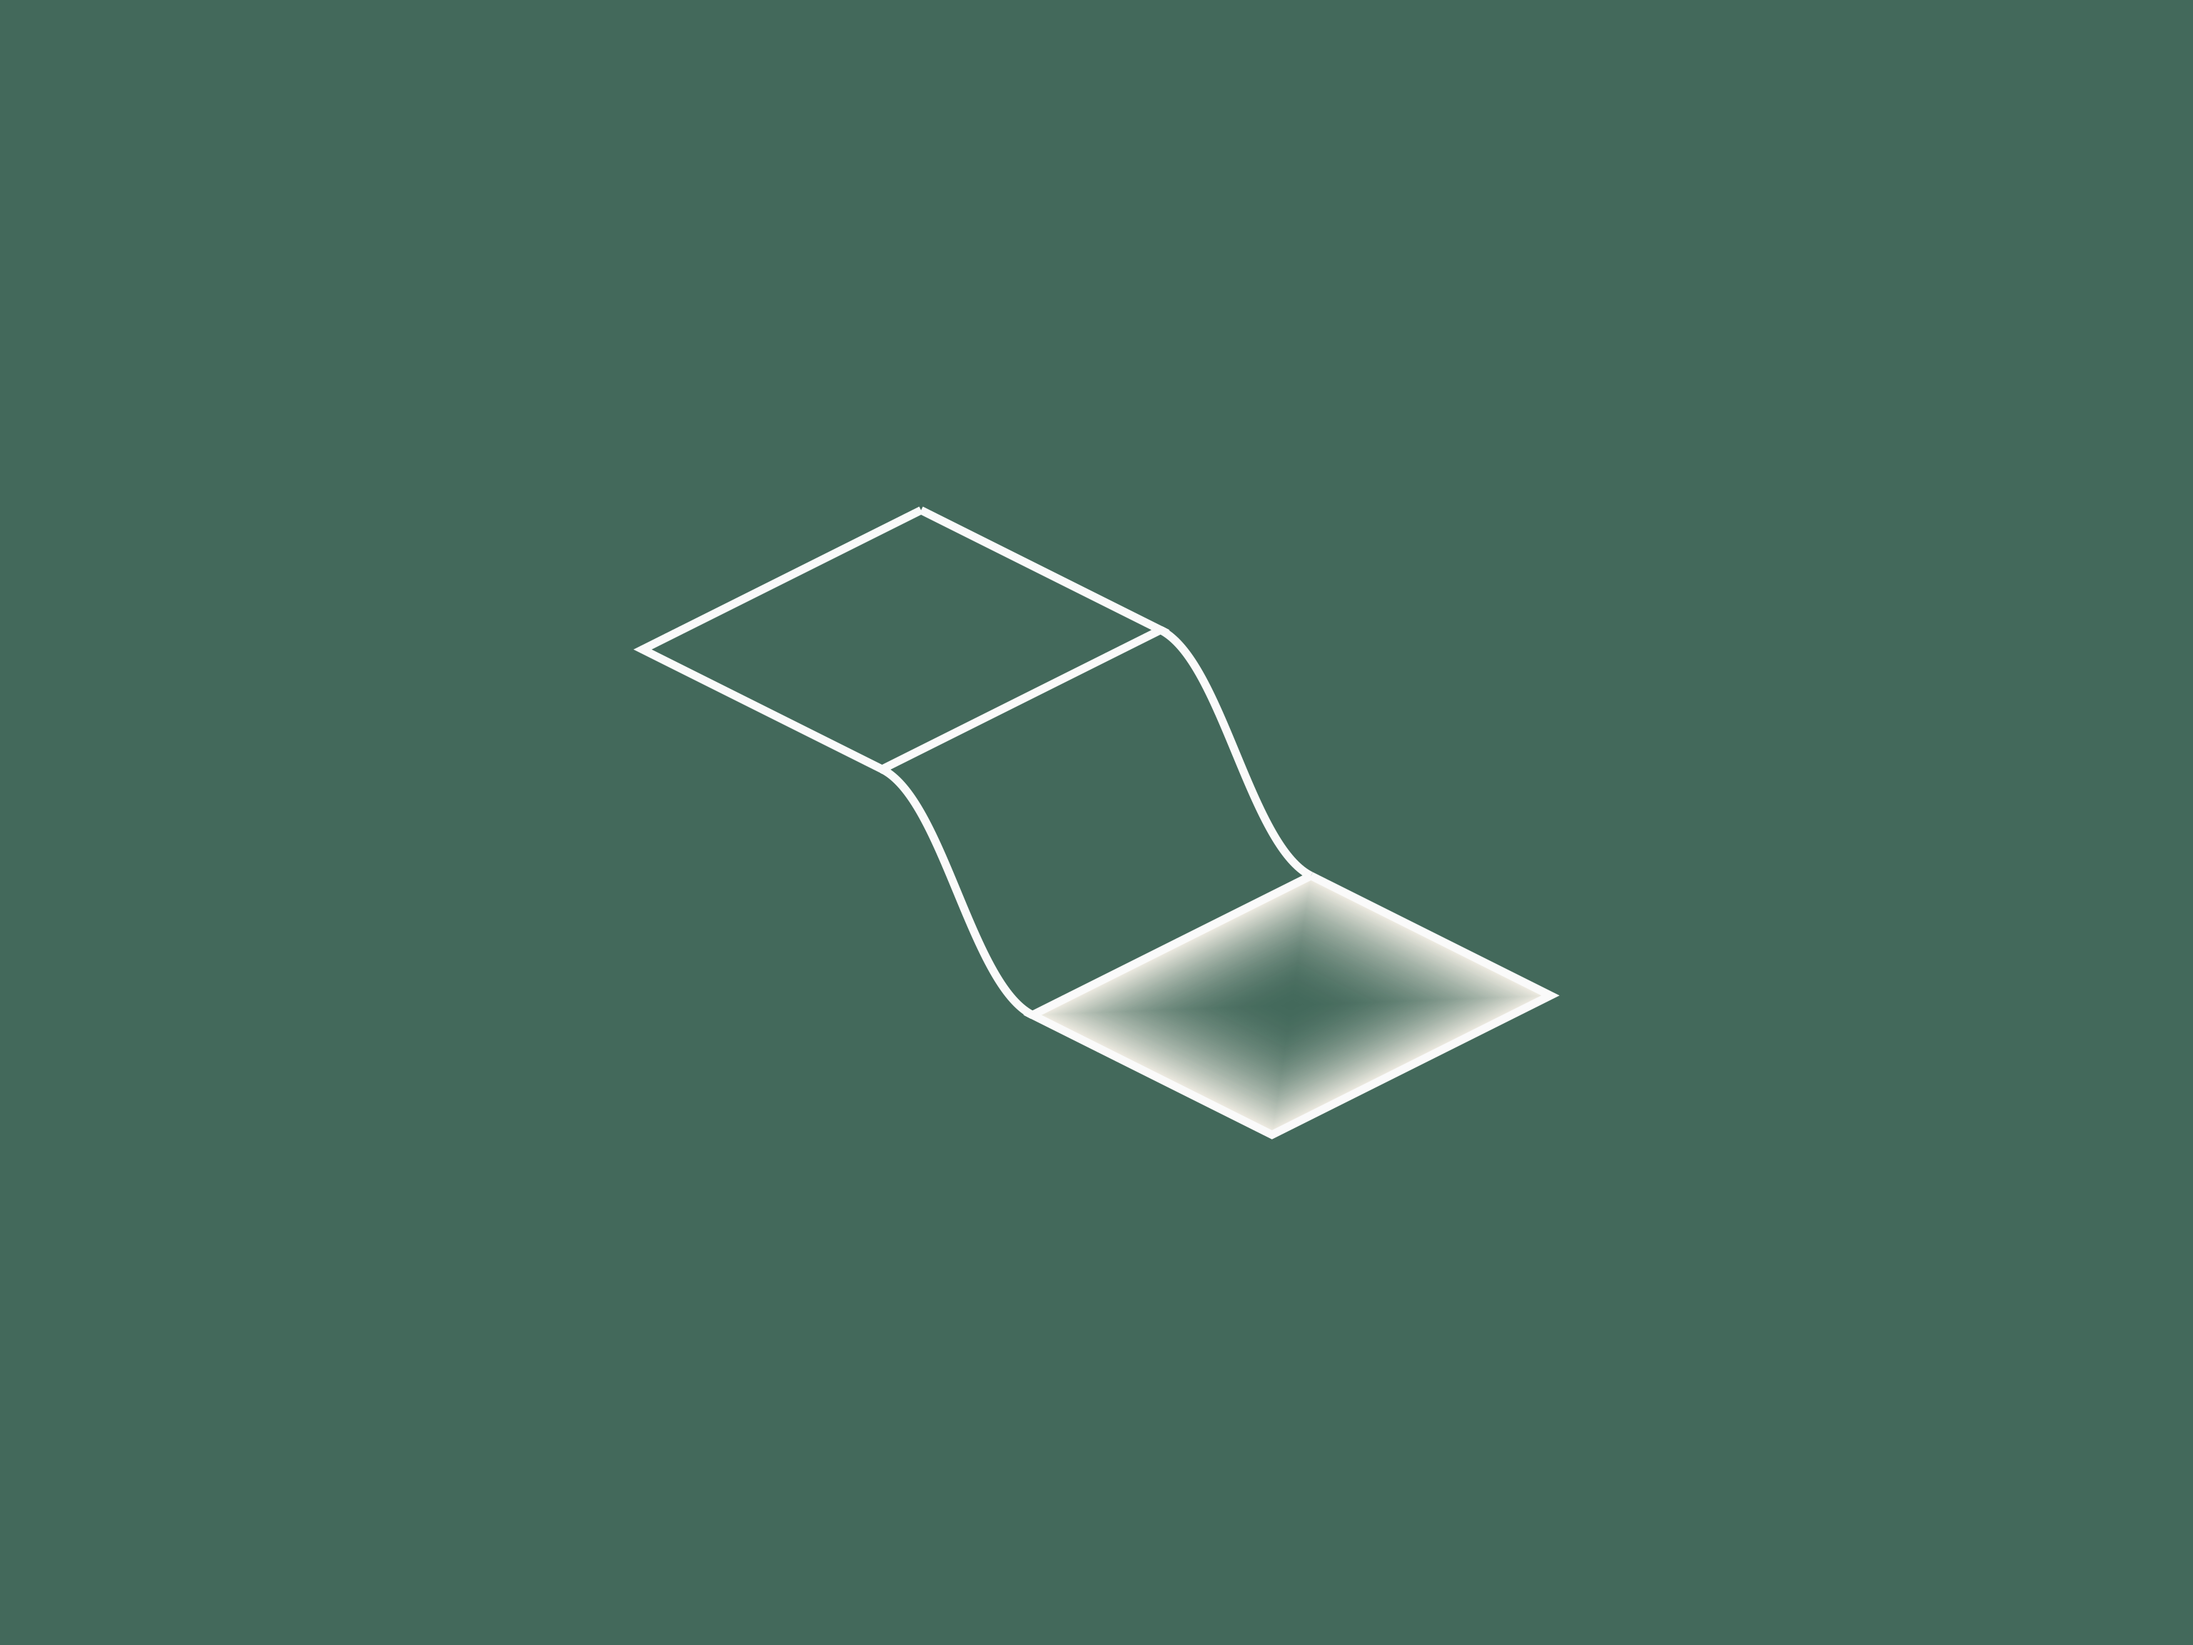
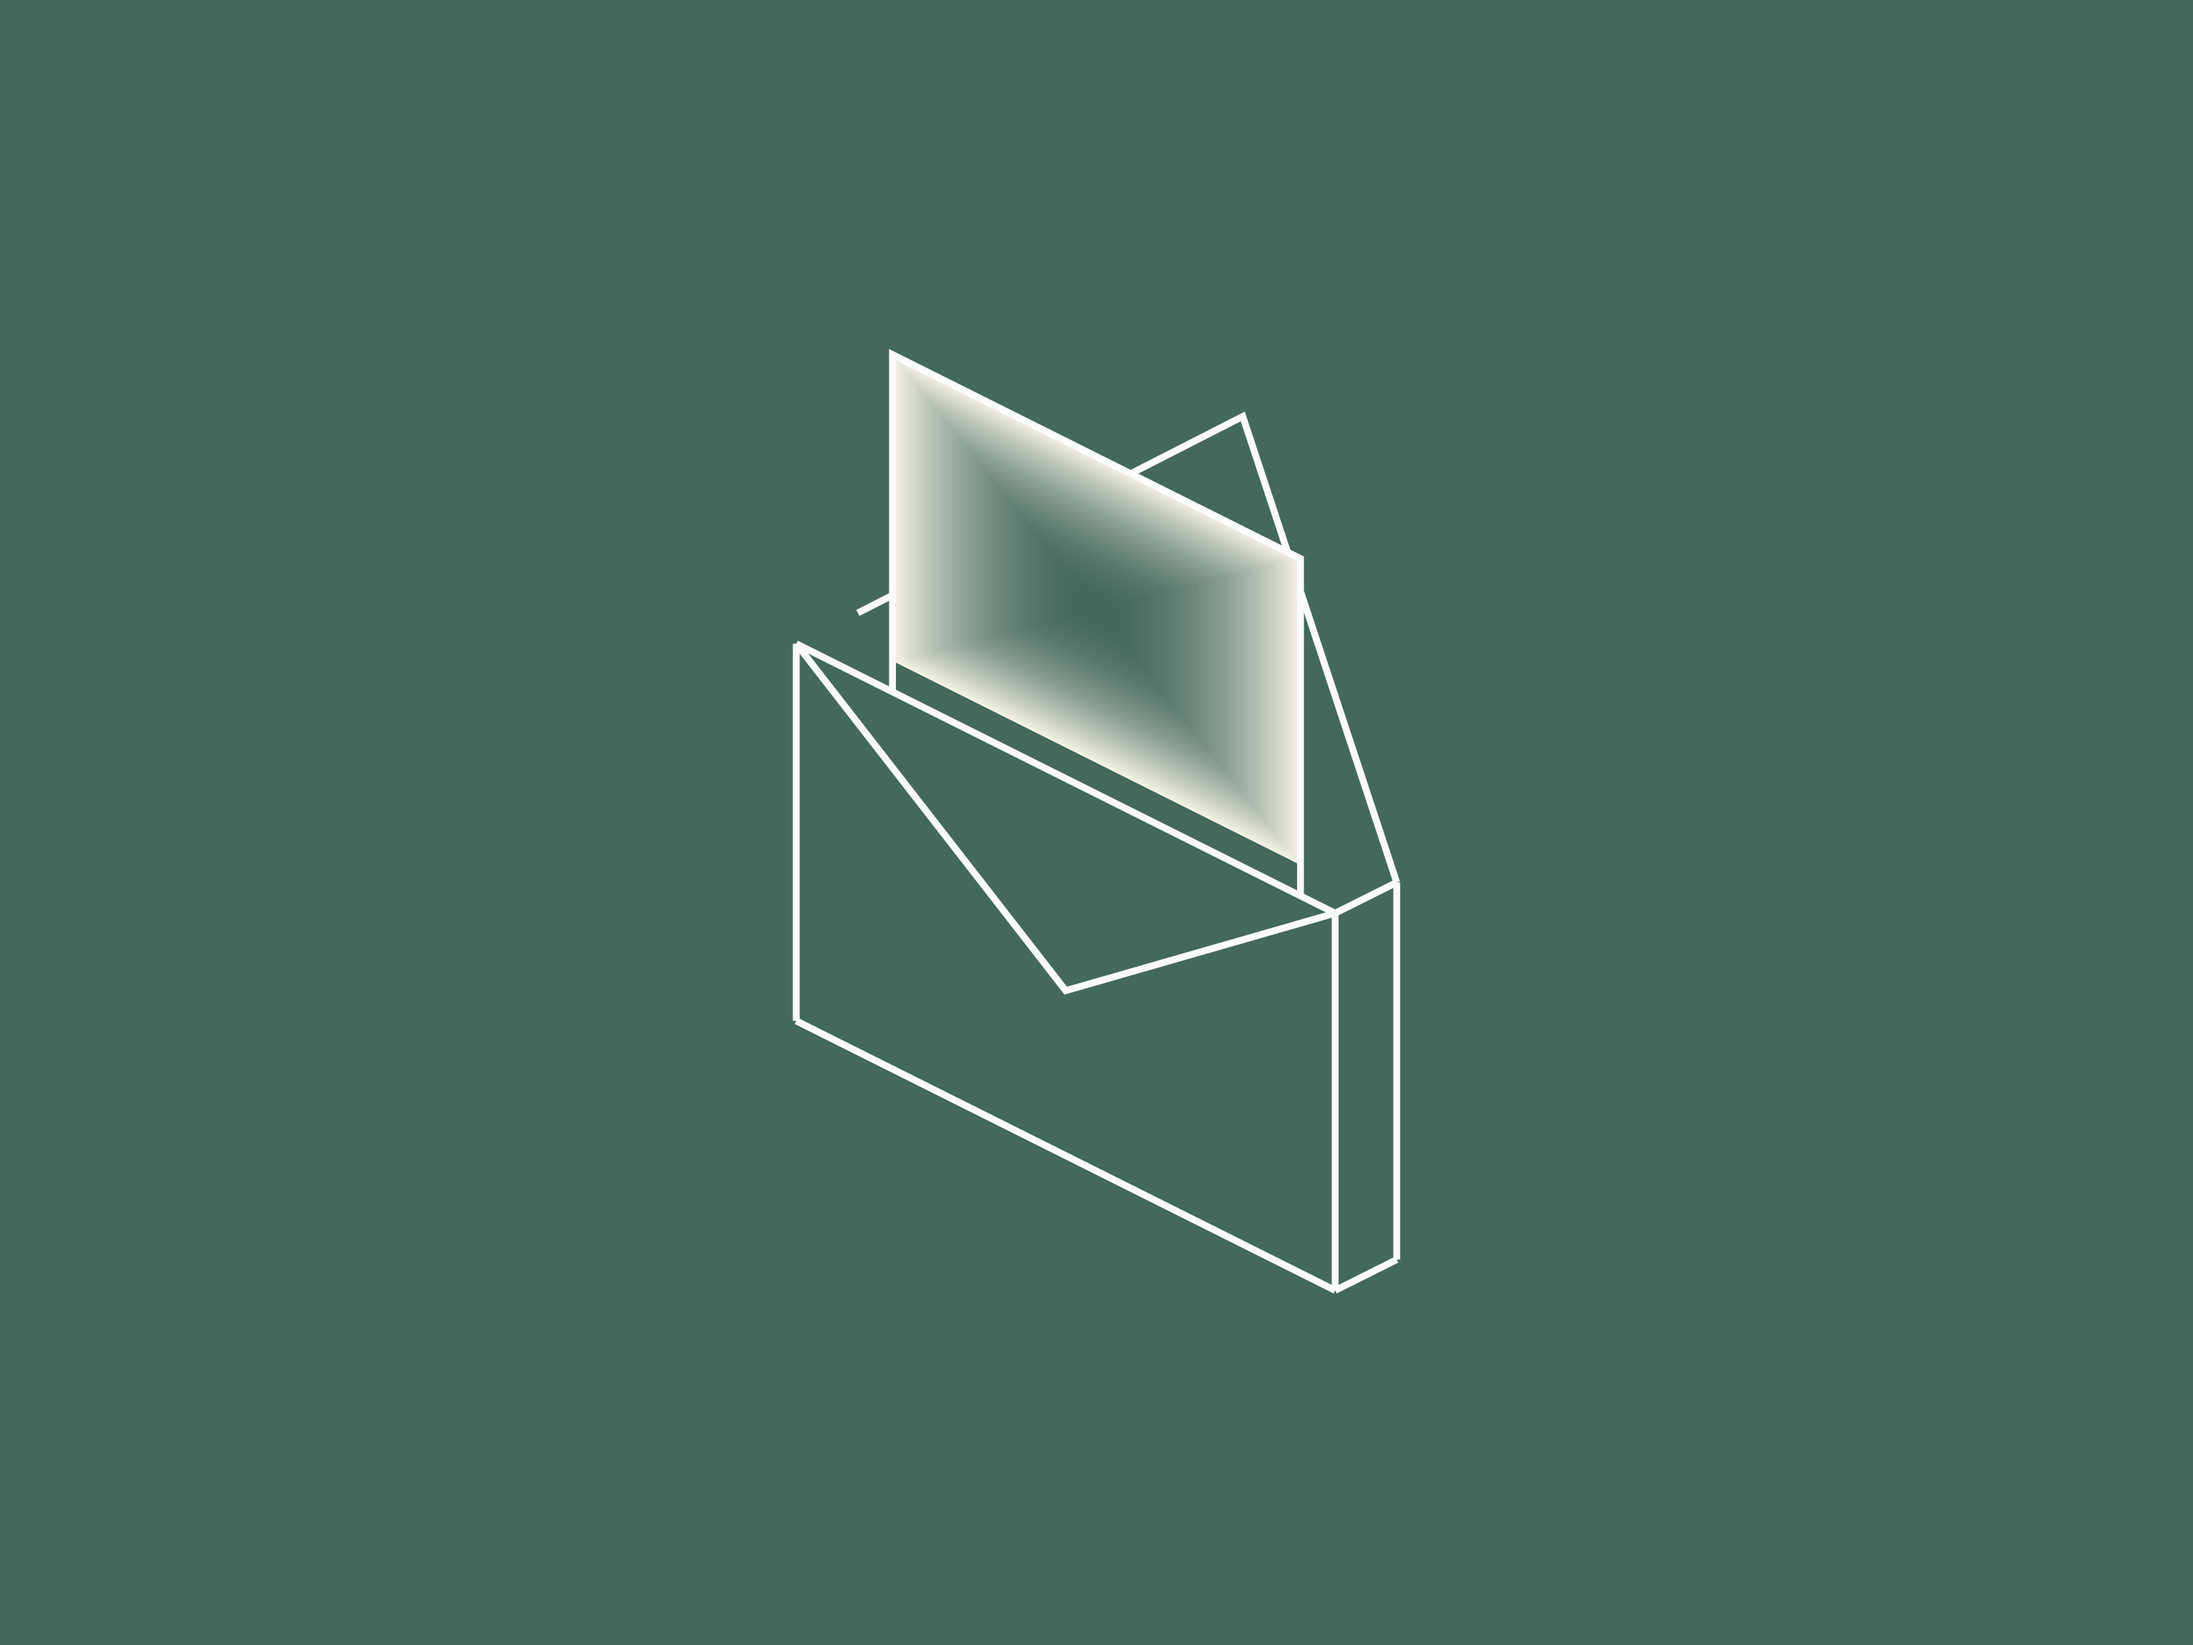
Clarify quote cover with an open envelope and finer outlines

diff --git a/docs/design/blog-illustrations-2026-11-17/quotes-go-quiet/decision.md b/docs/design/blog-illustrations-2026-11-17/quotes-go-quiet/decision.md
@@ -1,9 +1,11 @@
 # The quote went out. Then nothing.
 
-The article is about replies falling between channels; two equal sheets at different levels remain physically connected, so the highlighted response returns to the context of its quote. Two sheets and two connecting curves form one continuous relationship.
+Selected concept: an unmistakable open envelope with a document partly emerging. The quote is visibly still waiting for a reply. The document is the single highlighted part. This replaces the rejected abstract joined-sheet concept, retained in `recipe.abstract-rejected.mjs`.
 
-Source: https://atomsai.com/resources/blog/quotes-go-quiet (local imported full body reviewed). Created with the current AtomsAI Illustration Skill renderer, verified against the brand repository with `--repo`. The `unfolding` reference supplies framing only; the recipe contains original geometry.
+Source: https://atomsai.com/resources/blog/quotes-go-quiet; the local imported body describes an emailed quote followed by silence and disconnected follow-up channels. No article text was changed.
 
-Visual review: inspected the eight-view contact sheet at 300 px drawing viewport, Dark and Light, neutral/oblique/back/underside. Connectors meet the actual four receiving sheet corners, both sheets retain equal dimensions, the rear view preserves depth and the Iris fade stays inside the receiving sheet. Neutral view has a distinct stepped silhouette and generous empty space. Thin shared linework matches the reference; no mesh edges, duplicate contours, halo or disconnected endpoints were visible. The recipe verifies equal dimensions, orthogonality, connector endpoints and positive gap. Mechanical checks passed for all eight exports.
+Geometry: a 140 × 80 envelope pocket has 16 units of true depth, five physical faces and an open mouth. A triangular back flap folds away from the mouth along a shared hinge. Front fold seams meet at one point. A 106-unit-wide rectangular document sits inside the pocket and extends above it. The focal fade covers only its exposed front face. No text, decorative connector or extra object is used.
 
-Selected still: `review/neutral-dark.svg`. Transparent master; the parent integration supplies the dark thumbnail field. Actual article-card crops are checked during integration, not certified by this geometry review.
+Validation: all eight Dark/Light neutral, oblique, back and underside exports passed the current skill renderer checks. Viewed the full contact sheet. The pocket reads as an envelope in the neutral and oblique views, its side and bottom preserve depth, and the document stays correctly behind the front and ahead of the back flap. The hidden front highlight disappears on the back view. No hanging joints, duplicate surfaces or impossible crossing were visible. Recipe checks verify an open mouth, a document that fits in the depth and width, orthogonal sheet dimensions and a flap attached to the actual rear mouth edge.
+
+Parent integration preserves the approved v2 fields, Paper outlines, Cream highlight, SVG and 4:3 placement, and applies the requested thinner line weight. Review files keep the skill's diagnostic palette. Selected geometric master: `review/neutral-dark.svg`.
